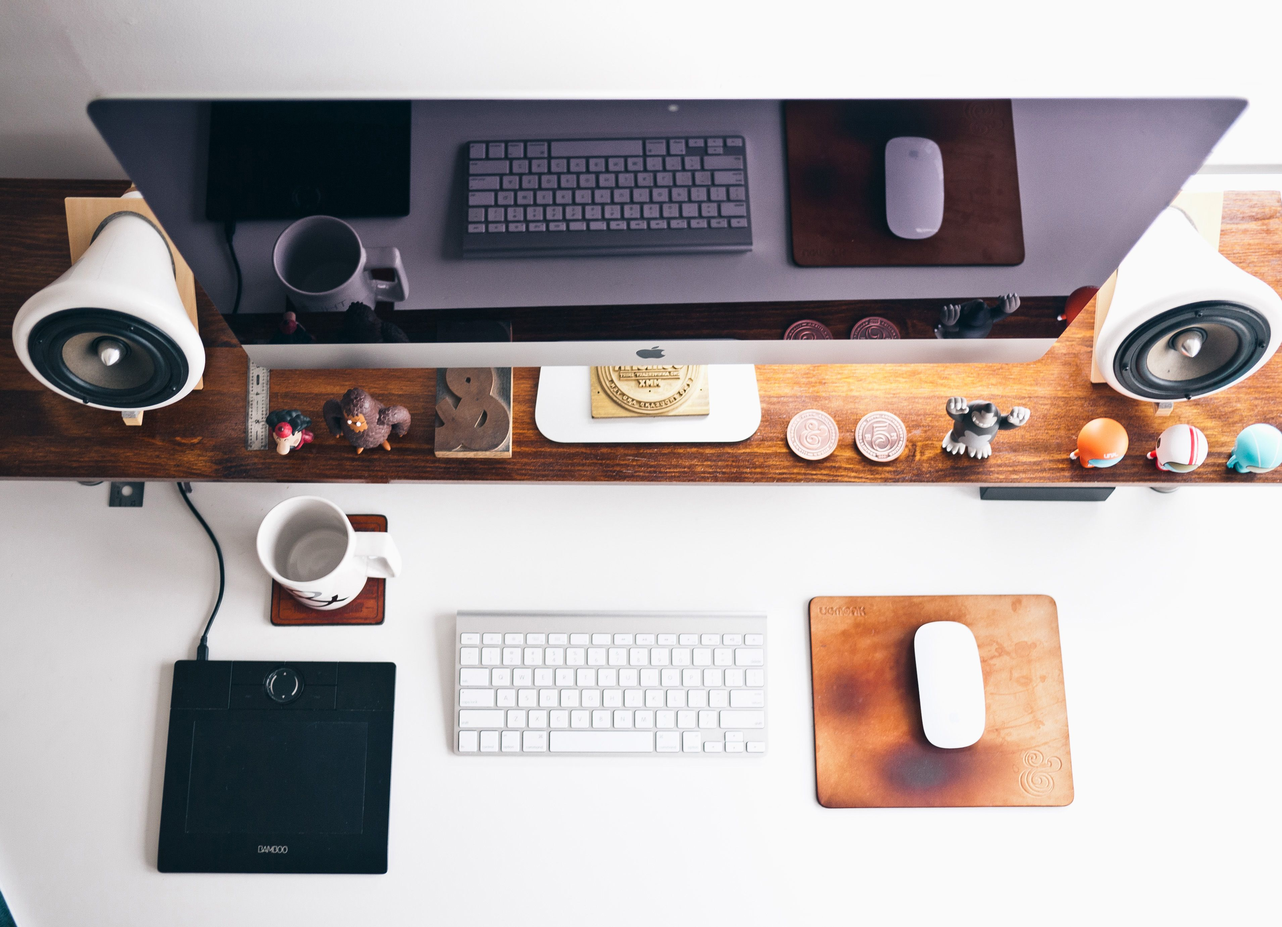
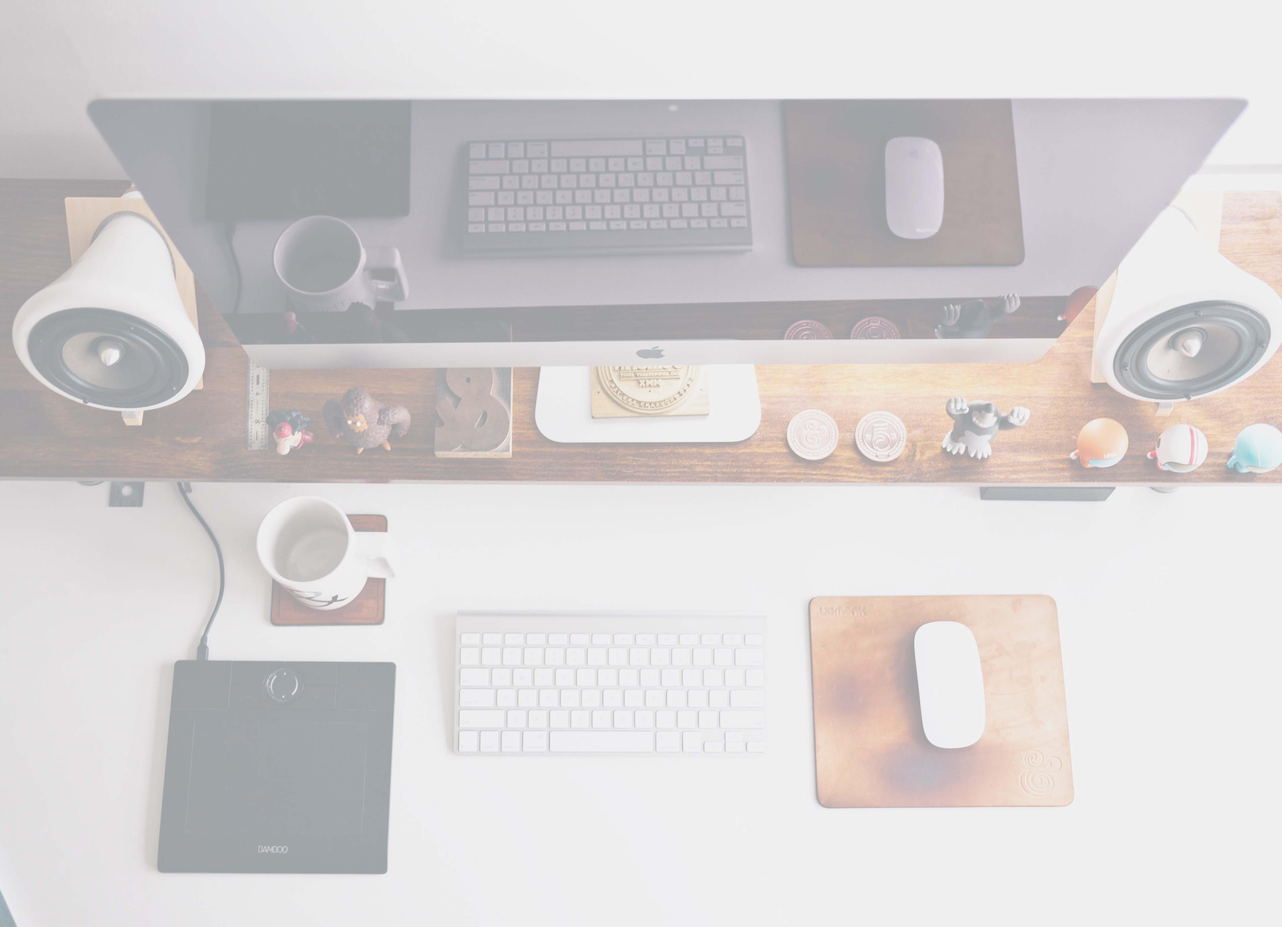
hero-image lighten

diff --git a/css/main.css b/css/main.css
@@ -14,7 +14,7 @@
   width: 100%;
   height: 100%;
   z-index: -1;
-  opacity: 0.3;
+  opacity: 0.5;
   background-image: url('../assets/hero-image.jpg');
   background-repeat: no-repeat;
   background-position: 50% 0;
